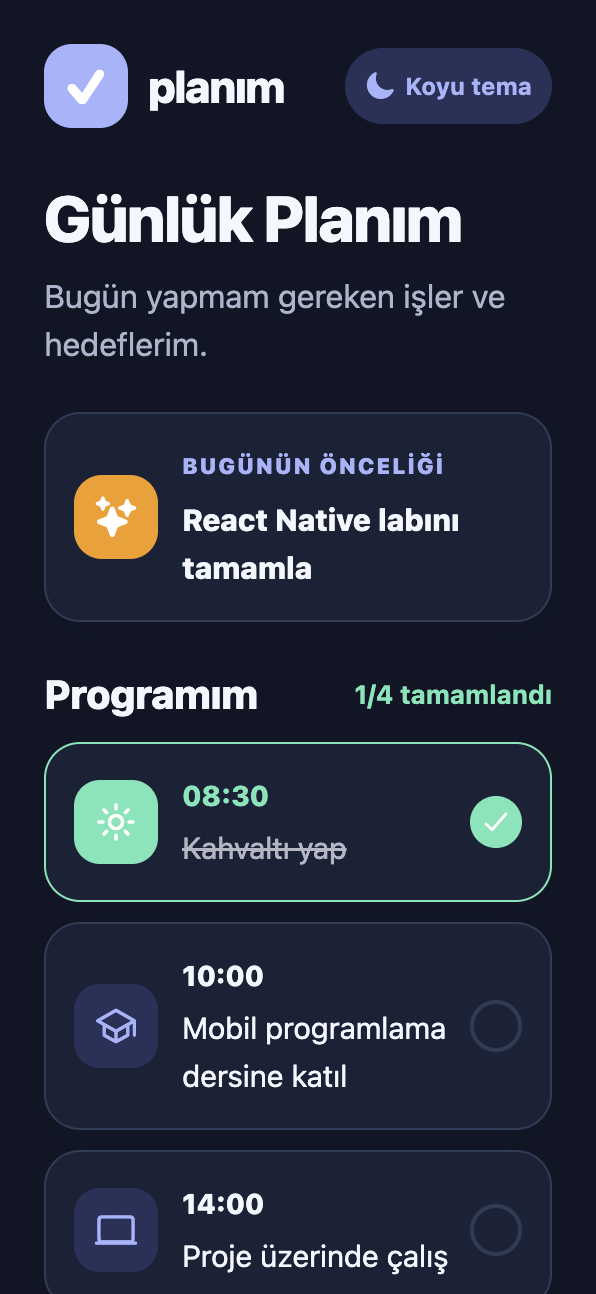
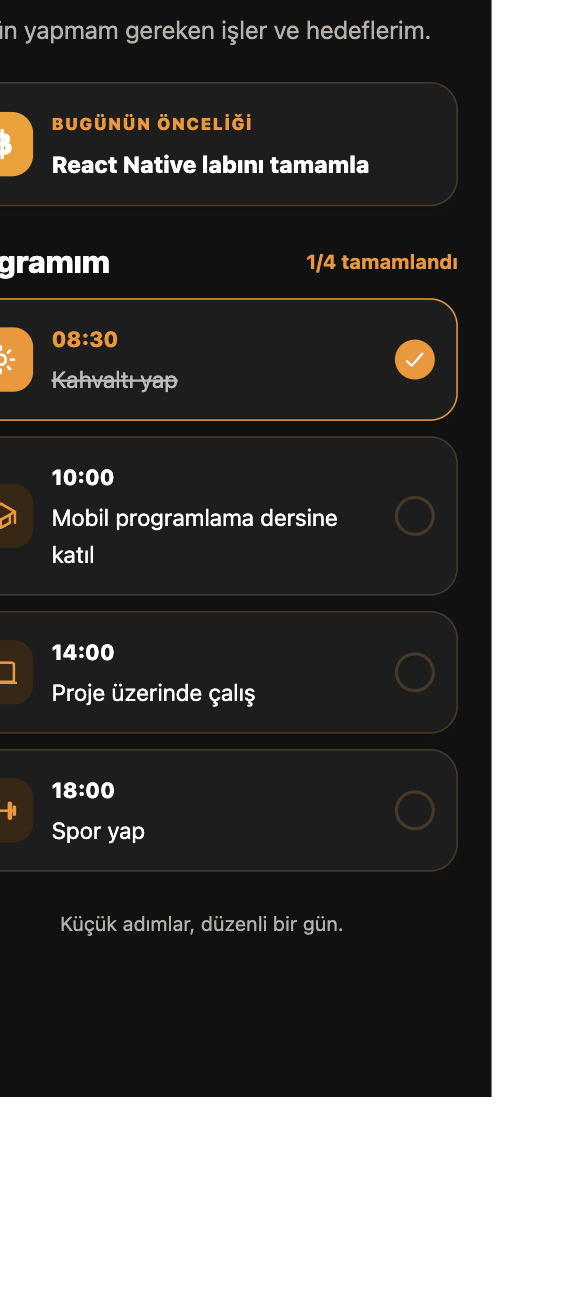
feat: apply bitcoin color theme

diff --git a/components/theme.js b/components/theme.js
@@ -2,24 +2,24 @@ import { useColorScheme } from 'react-native';
 
 export const colors = {
   light: {
-    background: '#F6F8FC',
+    background: '#FFF8F0',
     surface: '#FFFFFF',
-    text: '#172033',
-    muted: '#64748B',
-    primary: '#4F46E5',
-    primarySoft: '#EEF2FF',
-    border: '#E2E8F0',
-    success: '#0F9D72',
+    text: '#171717',
+    muted: '#6B625B',
+    primary: '#F7931A',
+    primarySoft: '#FFF0DC',
+    border: '#F0D8B8',
+    success: '#D97706',
   },
   dark: {
-    background: '#101525',
-    surface: '#1A2237',
-    text: '#F4F7FF',
-    muted: '#AAB5CB',
-    primary: '#A5B4FC',
-    primarySoft: '#2A3158',
-    border: '#303B56',
-    success: '#6EE7B7',
+    background: '#111111',
+    surface: '#1D1D1D',
+    text: '#FFFFFF',
+    muted: '#B8B0A8',
+    primary: '#F7931A',
+    primarySoft: '#3A2614',
+    border: '#4A3825',
+    success: '#F7931A',
   },
 };
 

diff --git a/app/index.jsx b/app/index.jsx
@@ -47,7 +47,7 @@ export default function Index() {
           <Spacer height={22} />
           <ThemedCard style={styles.priority}>
             <View style={styles.priorityIcon}>
-              <Ionicons name="sparkles" size={20} color="#FFFFFF" />
+              <Ionicons name="logo-bitcoin" size={22} color="#FFFFFF" />
             </View>
             <View style={styles.priorityCopy}>
               <ThemedText style={[styles.priorityLabel, { color: colors.primary }]}>BUGÜNÜN ÖNCELİĞİ</ThemedText>
